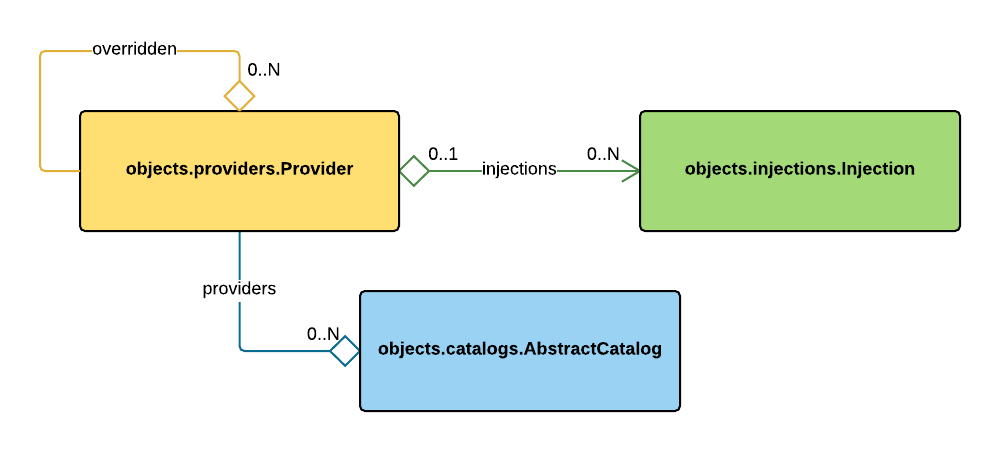
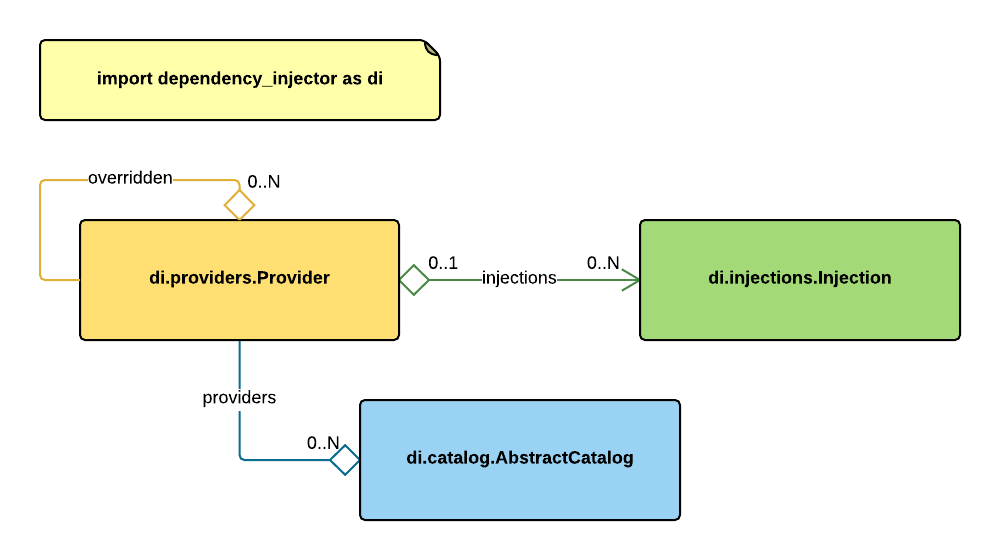
Update introduction docs for 0.9.x

diff --git a/docs/main/introduction.rst b/docs/main/introduction.rst
@@ -57,6 +57,27 @@ framework:
 
 Main idea of *Dependency Injector* is to keep dependencies under control.
 
+Shortcuts
+---------
+
+*Dependency Injector* recommends to use such kind of import shortcut:
+
+.. code-block:: python
+
+   import dependency_injector as di
+
+- All *Dependency Injector* entities could be used just from top-level package 
+  (like ``di.Factory``, ``di.inject``, ``di.AbstractCatalog`` and so on).
+- Another one way is to use second level packages (like 
+  ``di.providers.Factory``, ``di.injections.inject``, 
+  ``di.catalog.AbstractCatalog`` and so on). It might be useful for improving 
+  of readability in some cases.
+
+.. note::
+
+    ``import dependency_injector as di`` shortcut is used among current 
+    documentation, images and examples.
+
 Main entities
 -------------
 
@@ -70,20 +91,18 @@ interaction with each other.
 There are 3 main entities:
 
 - Providers. Providers are strategies of accesing objects. For example, 
-  ``dependency_injector.providers.Factory`` creates new instance of provided 
-  class every time it is called. ``dependency_injector.providers.Singleton`` 
-  creates provided instance once and returns it on every next call. Providers 
+  ``di.providers.Factory`` creates new instance of provided 
+  class every time it is called. ``di.providers.Singleton`` creates 
+  provided instance once and returns it on every next call. Providers 
   could be overridden by another providers. Base class is - 
-  ``dependency_injector.providers.Provider``.
+  ``di.providers.Provider``.
 - Injections. Injections are instructions for making dependency injections 
   (there are several ways how they could be done). Injections are used mostly
-  by ``dependency_injector.providers.Factory`` and 
-  ``dependency_injector.providers.Singleton`` providers, but these are not only 
-  cases. Base class is - 
-  ``dependency_injector.injections.Injection``.
+  by ``di.providers.Factory`` and ``di.providers.Singleton`` providers, but 
+  these are not only cases. Base class is - ``di.injections.Injection``.
 - Catalogs. Catalogs are collections of providers. They are used for grouping 
   of providers by some principles. Base class is - 
-  ``dependency_injector.catalog.AbstractCatalog``.
+  ``di.catalog.AbstractCatalog``.
 
 
 .. _SLOC: http://en.wikipedia.org/wiki/Source_lines_of_code
